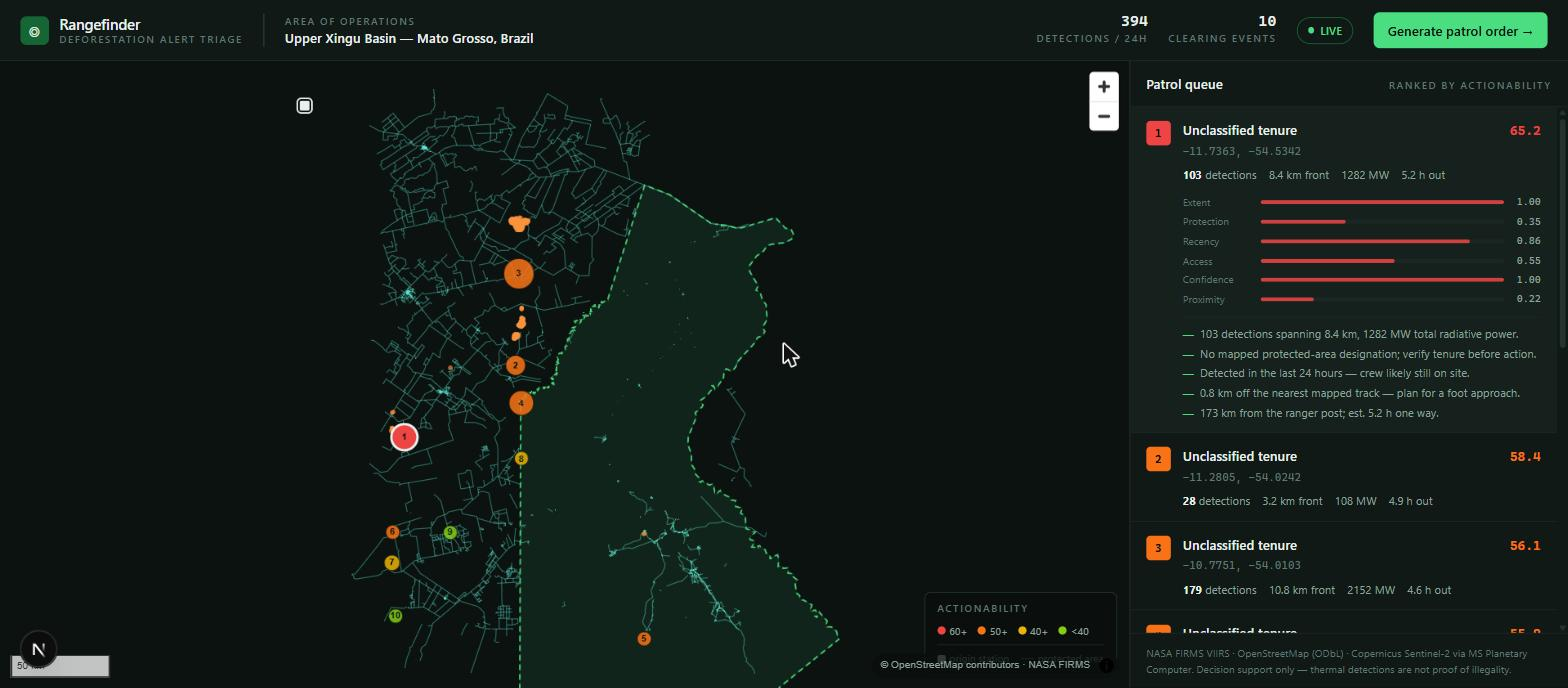
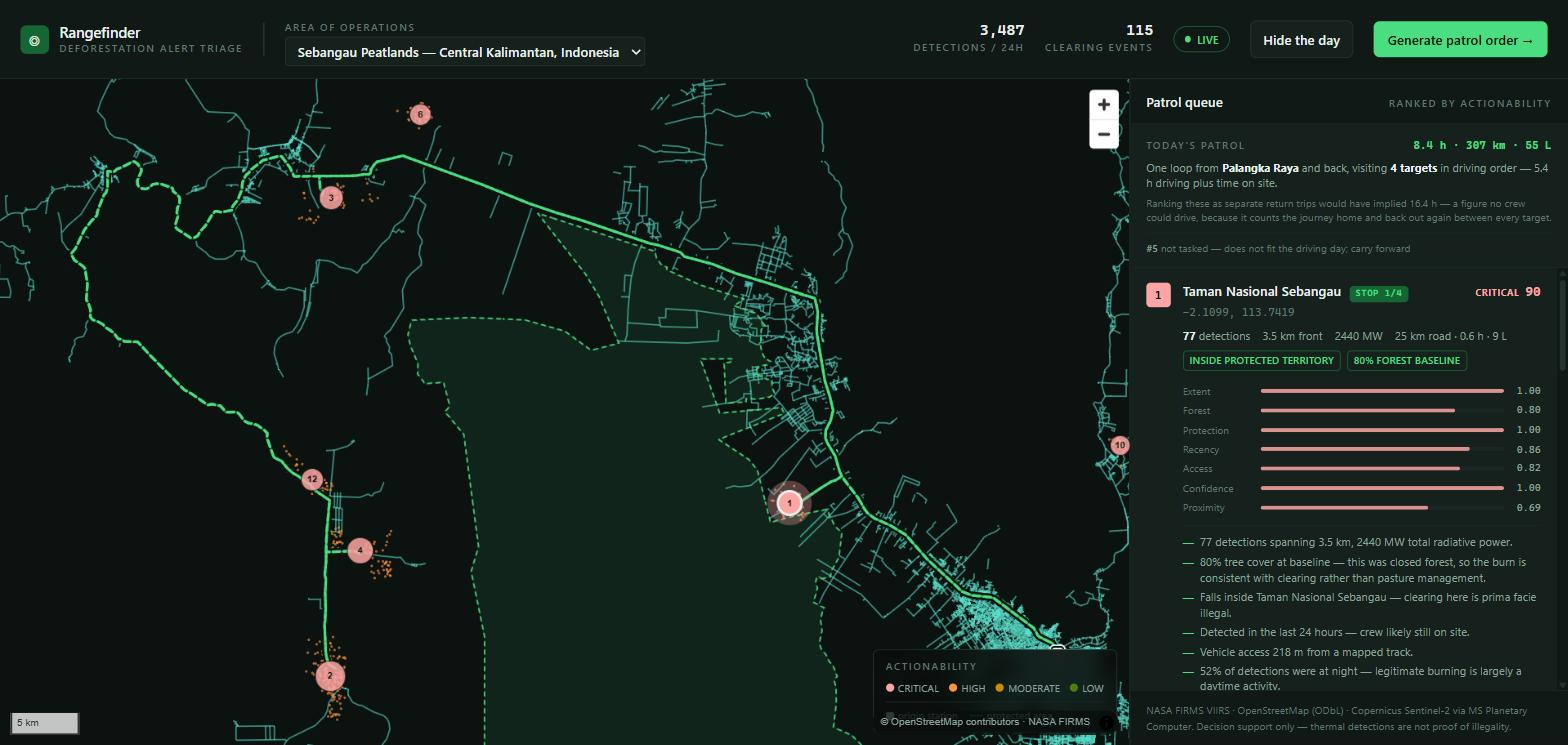
docs: lead with the patrol loop rather than a map of dots
The header image was captured before the day could be planned, so it showed
the ranking and none of the output -- which is the half that distinguishes this
from a heatmap. Replaced with Sebangau mid-plan: detections, the park boundary,
the routed loop, and the queue showing driving order beside priority.

Claude-Session: https://claude.ai/code/session_01BZrTcLH1H8SYsanRRiXKyG

diff --git a/README.md b/README.md
@@ -2,7 +2,7 @@
 
 Deforestation alerting is a solved problem. Deciding which alert to drive to first is not — Rangefinder turns a firehose of satellite fire detections into a short, ranked, printable patrol order.
 
-![Rangefinder — the road-gridded agricultural frontier on the west, the roadless Parque Indígena do Xingu on the east, live fire detections ranked between them](docs/screenshot.jpg)
+![Rangefinder on the Sebangau peatlands — raw VIIRS detections in orange, the national park boundary dashed, and the day planned as one driving loop from Palangka Raya through four ranked targets and back](docs/screenshot.jpg)
 
 **Live demo: [https://rangefinder-cyan.vercel.app](https://rangefinder-cyan.vercel.app)**
 
